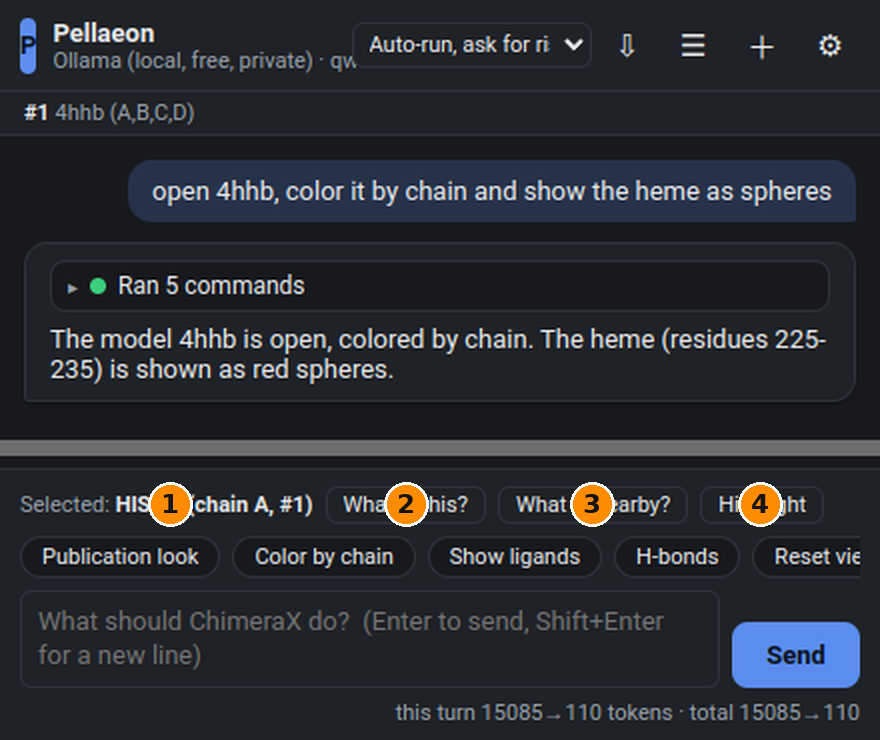
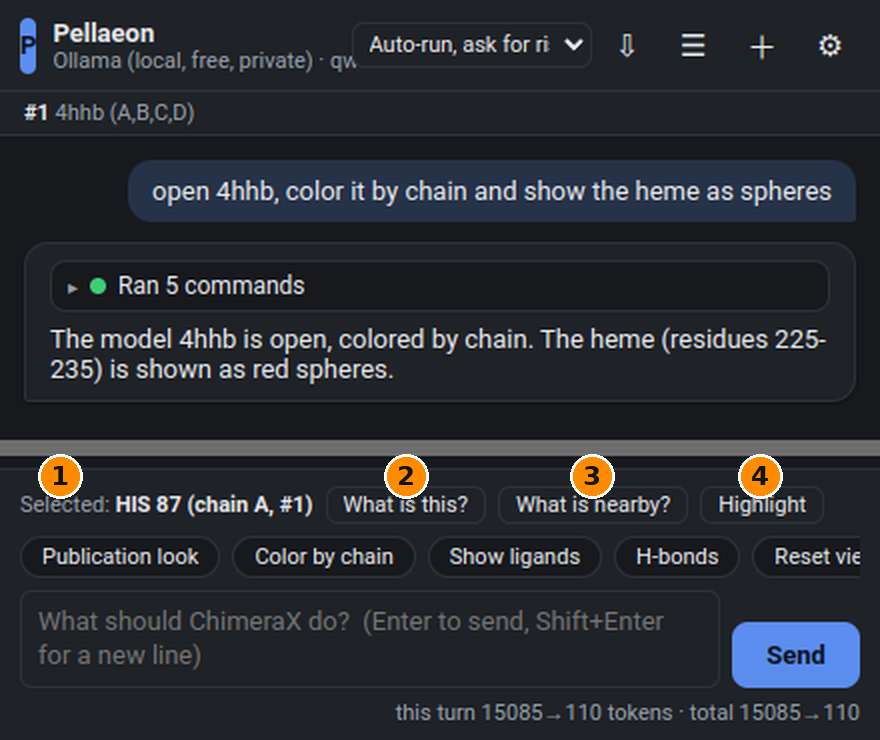
Tutorial screenshots: move callouts off the text
Claude-Session: https://claude.ai/code/session_01PM7SbgSP3nzreh8gr2JfWo

diff --git a/tools/annotate_shots.py b/tools/annotate_shots.py
@@ -48,10 +48,10 @@ def shot(name, marks=(), scale=2, crop=None, cut=None, out=None, max_width=None)
     print("wrote", out or name, im.size)
 
 
-shot("01_settings.png", [(115, 245), (170, 680), (403, 821), (70, 861), (380, 935)], crop=(0, 0, 440, 960))
-shot("03_first_request.png", [(240, 95), (105, 142), (120, 176), (55, 56), (100, 30), (235, 22), (60, 1040), (397, 1088)], cut=(220, 1000))
-shot("04_click_to_ask.png", [(85, 1014), (203, 1014), (296, 1014), (380, 1014)], cut=(220, 990))
-shot("05_confirm.png", [(150, 354), (60, 384), (380, 436)], cut=(480, 1000))
+shot("01_settings.png", [(24, 192), (300, 680), (403, 802), (140, 861), (426, 920)], crop=(0, 0, 440, 960))
+shot("03_first_request.png", [(70, 80), (25, 128), (230, 184), (120, 56), (130, 44), (300, 22), (60, 1022), (420, 1074)], cut=(220, 1000))
+shot("04_click_to_ask.png", [(30, 1000), (203, 1000), (296, 1000), (380, 1000)], cut=(220, 990))
+shot("05_confirm.png", [(280, 354), (200, 384), (400, 418)], cut=(480, 1000))
 shot("06_compare.png", crop=(0, 0, 440, 330))
 shot("07_annotate.png", crop=(0, 0, 440, 210))
 shot("02_empty_chat_main.png", scale=1, max_width=1800)
